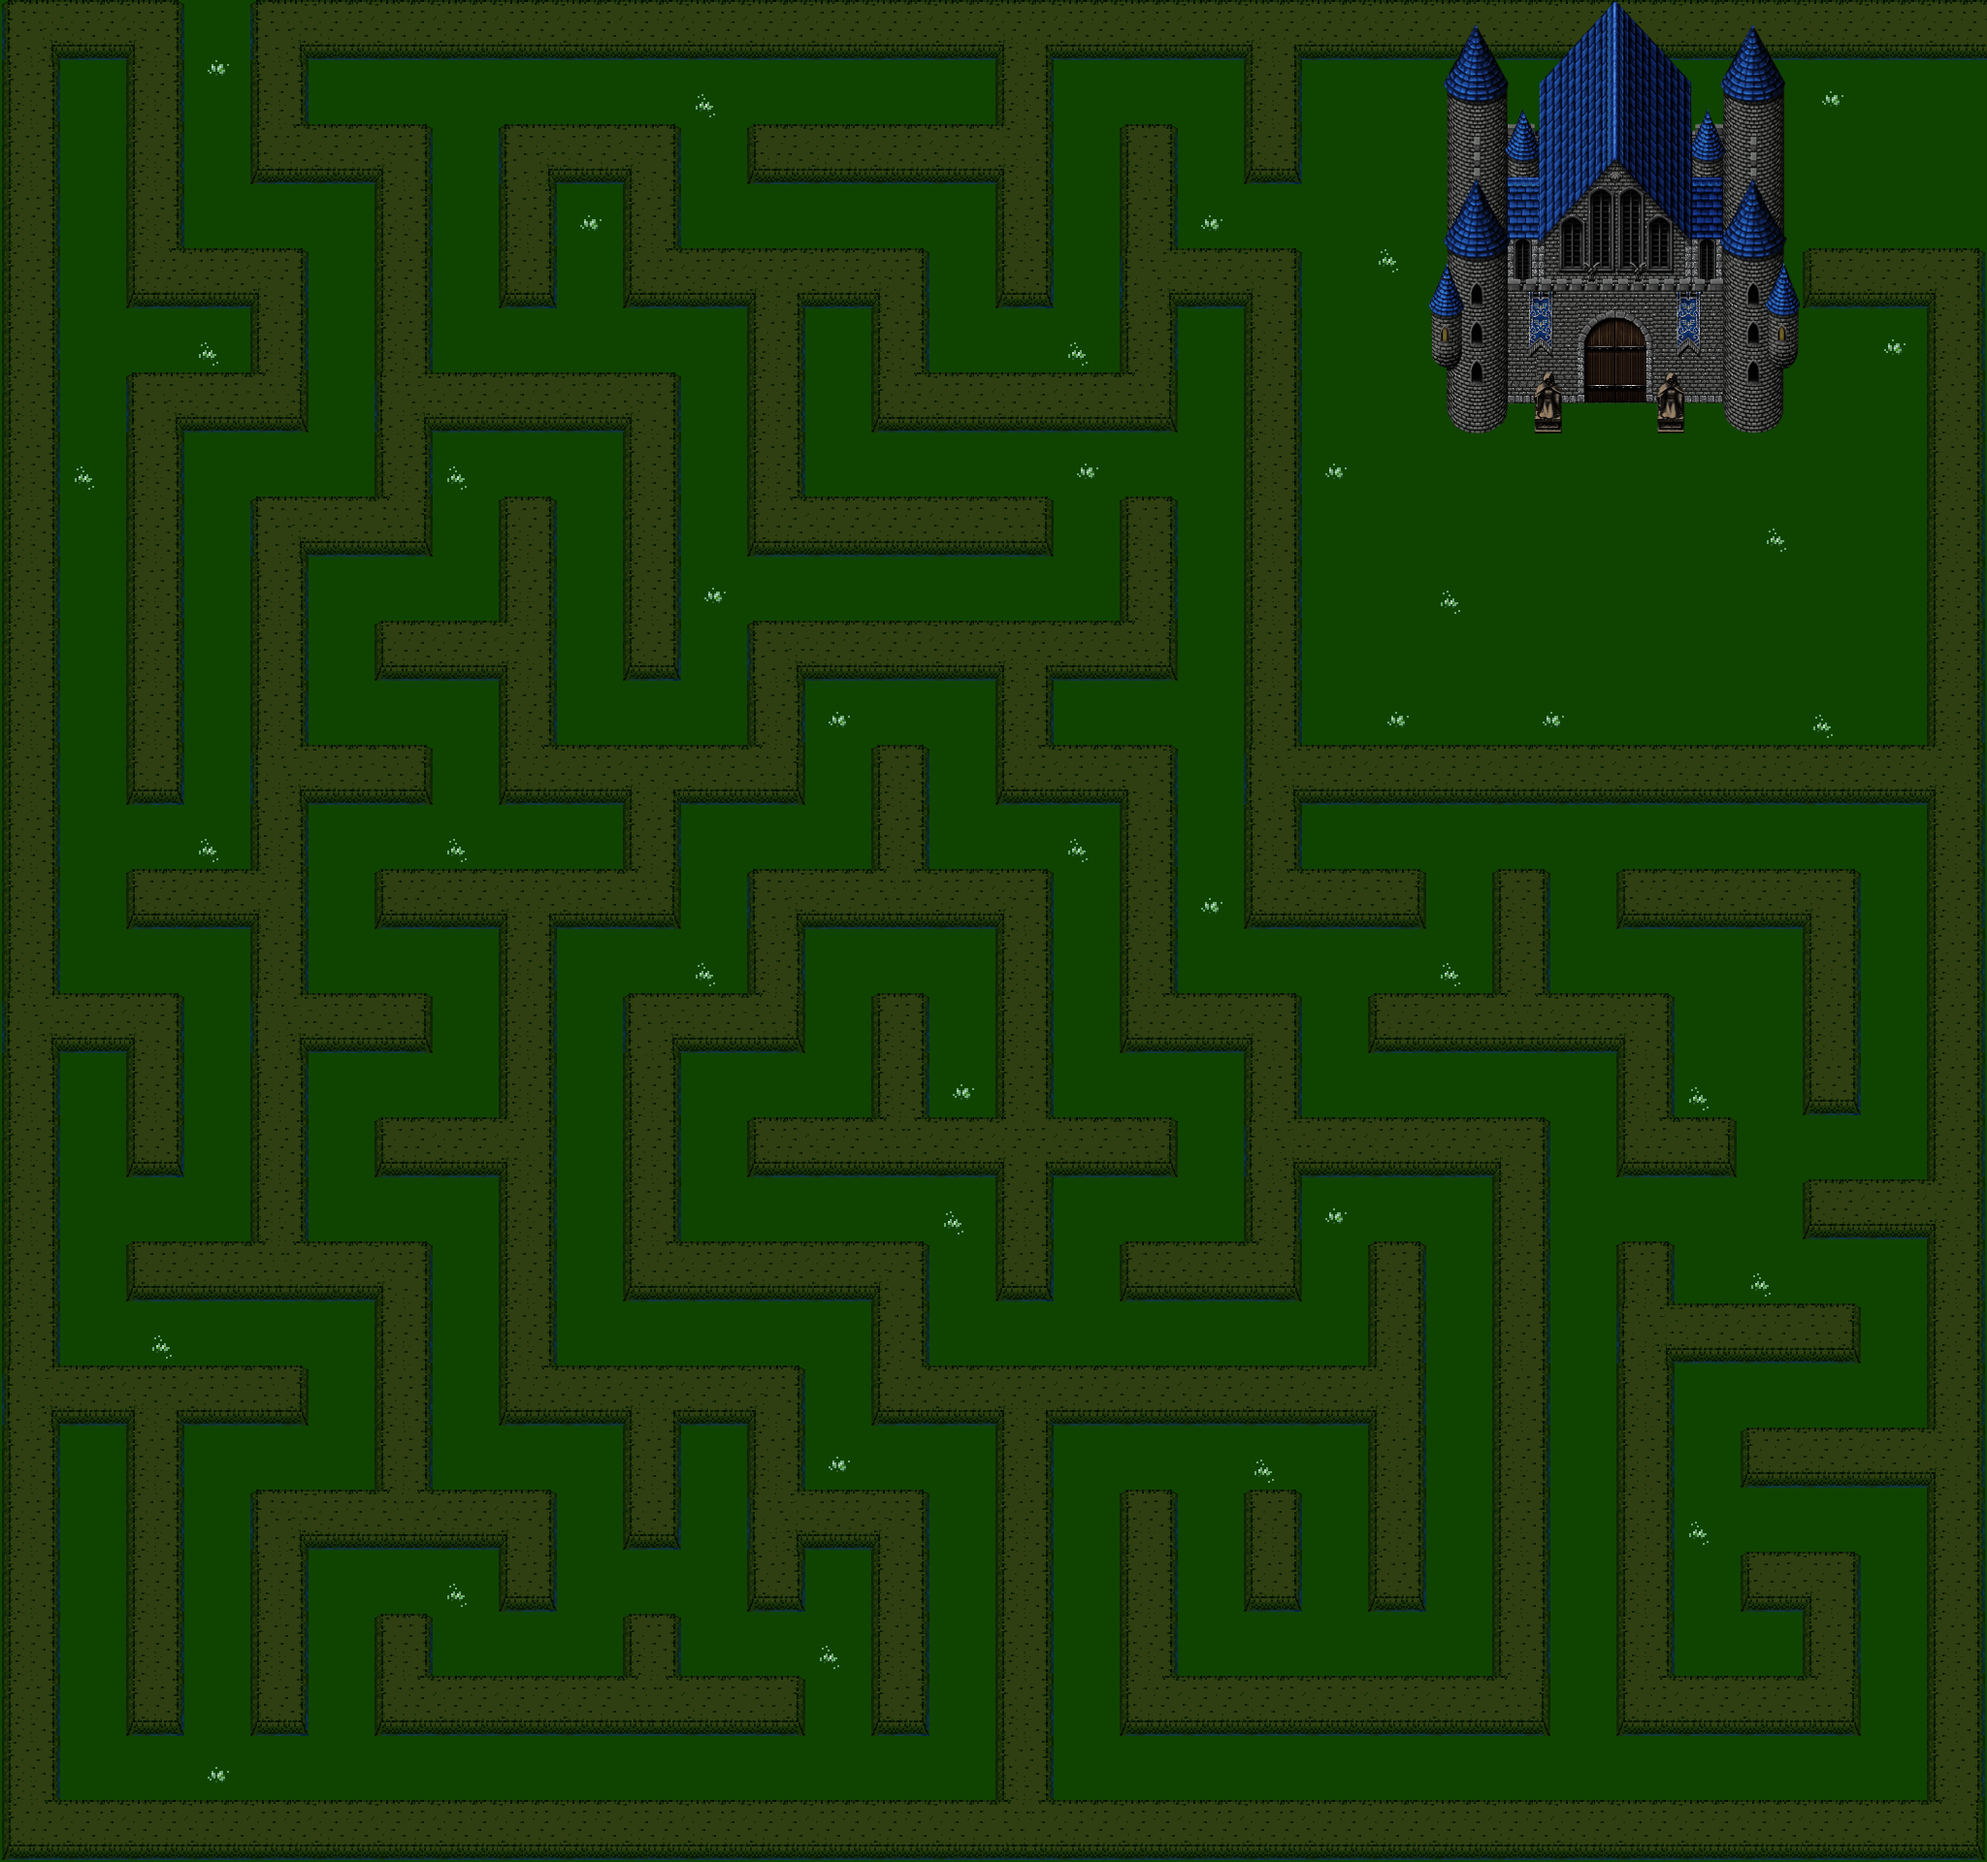
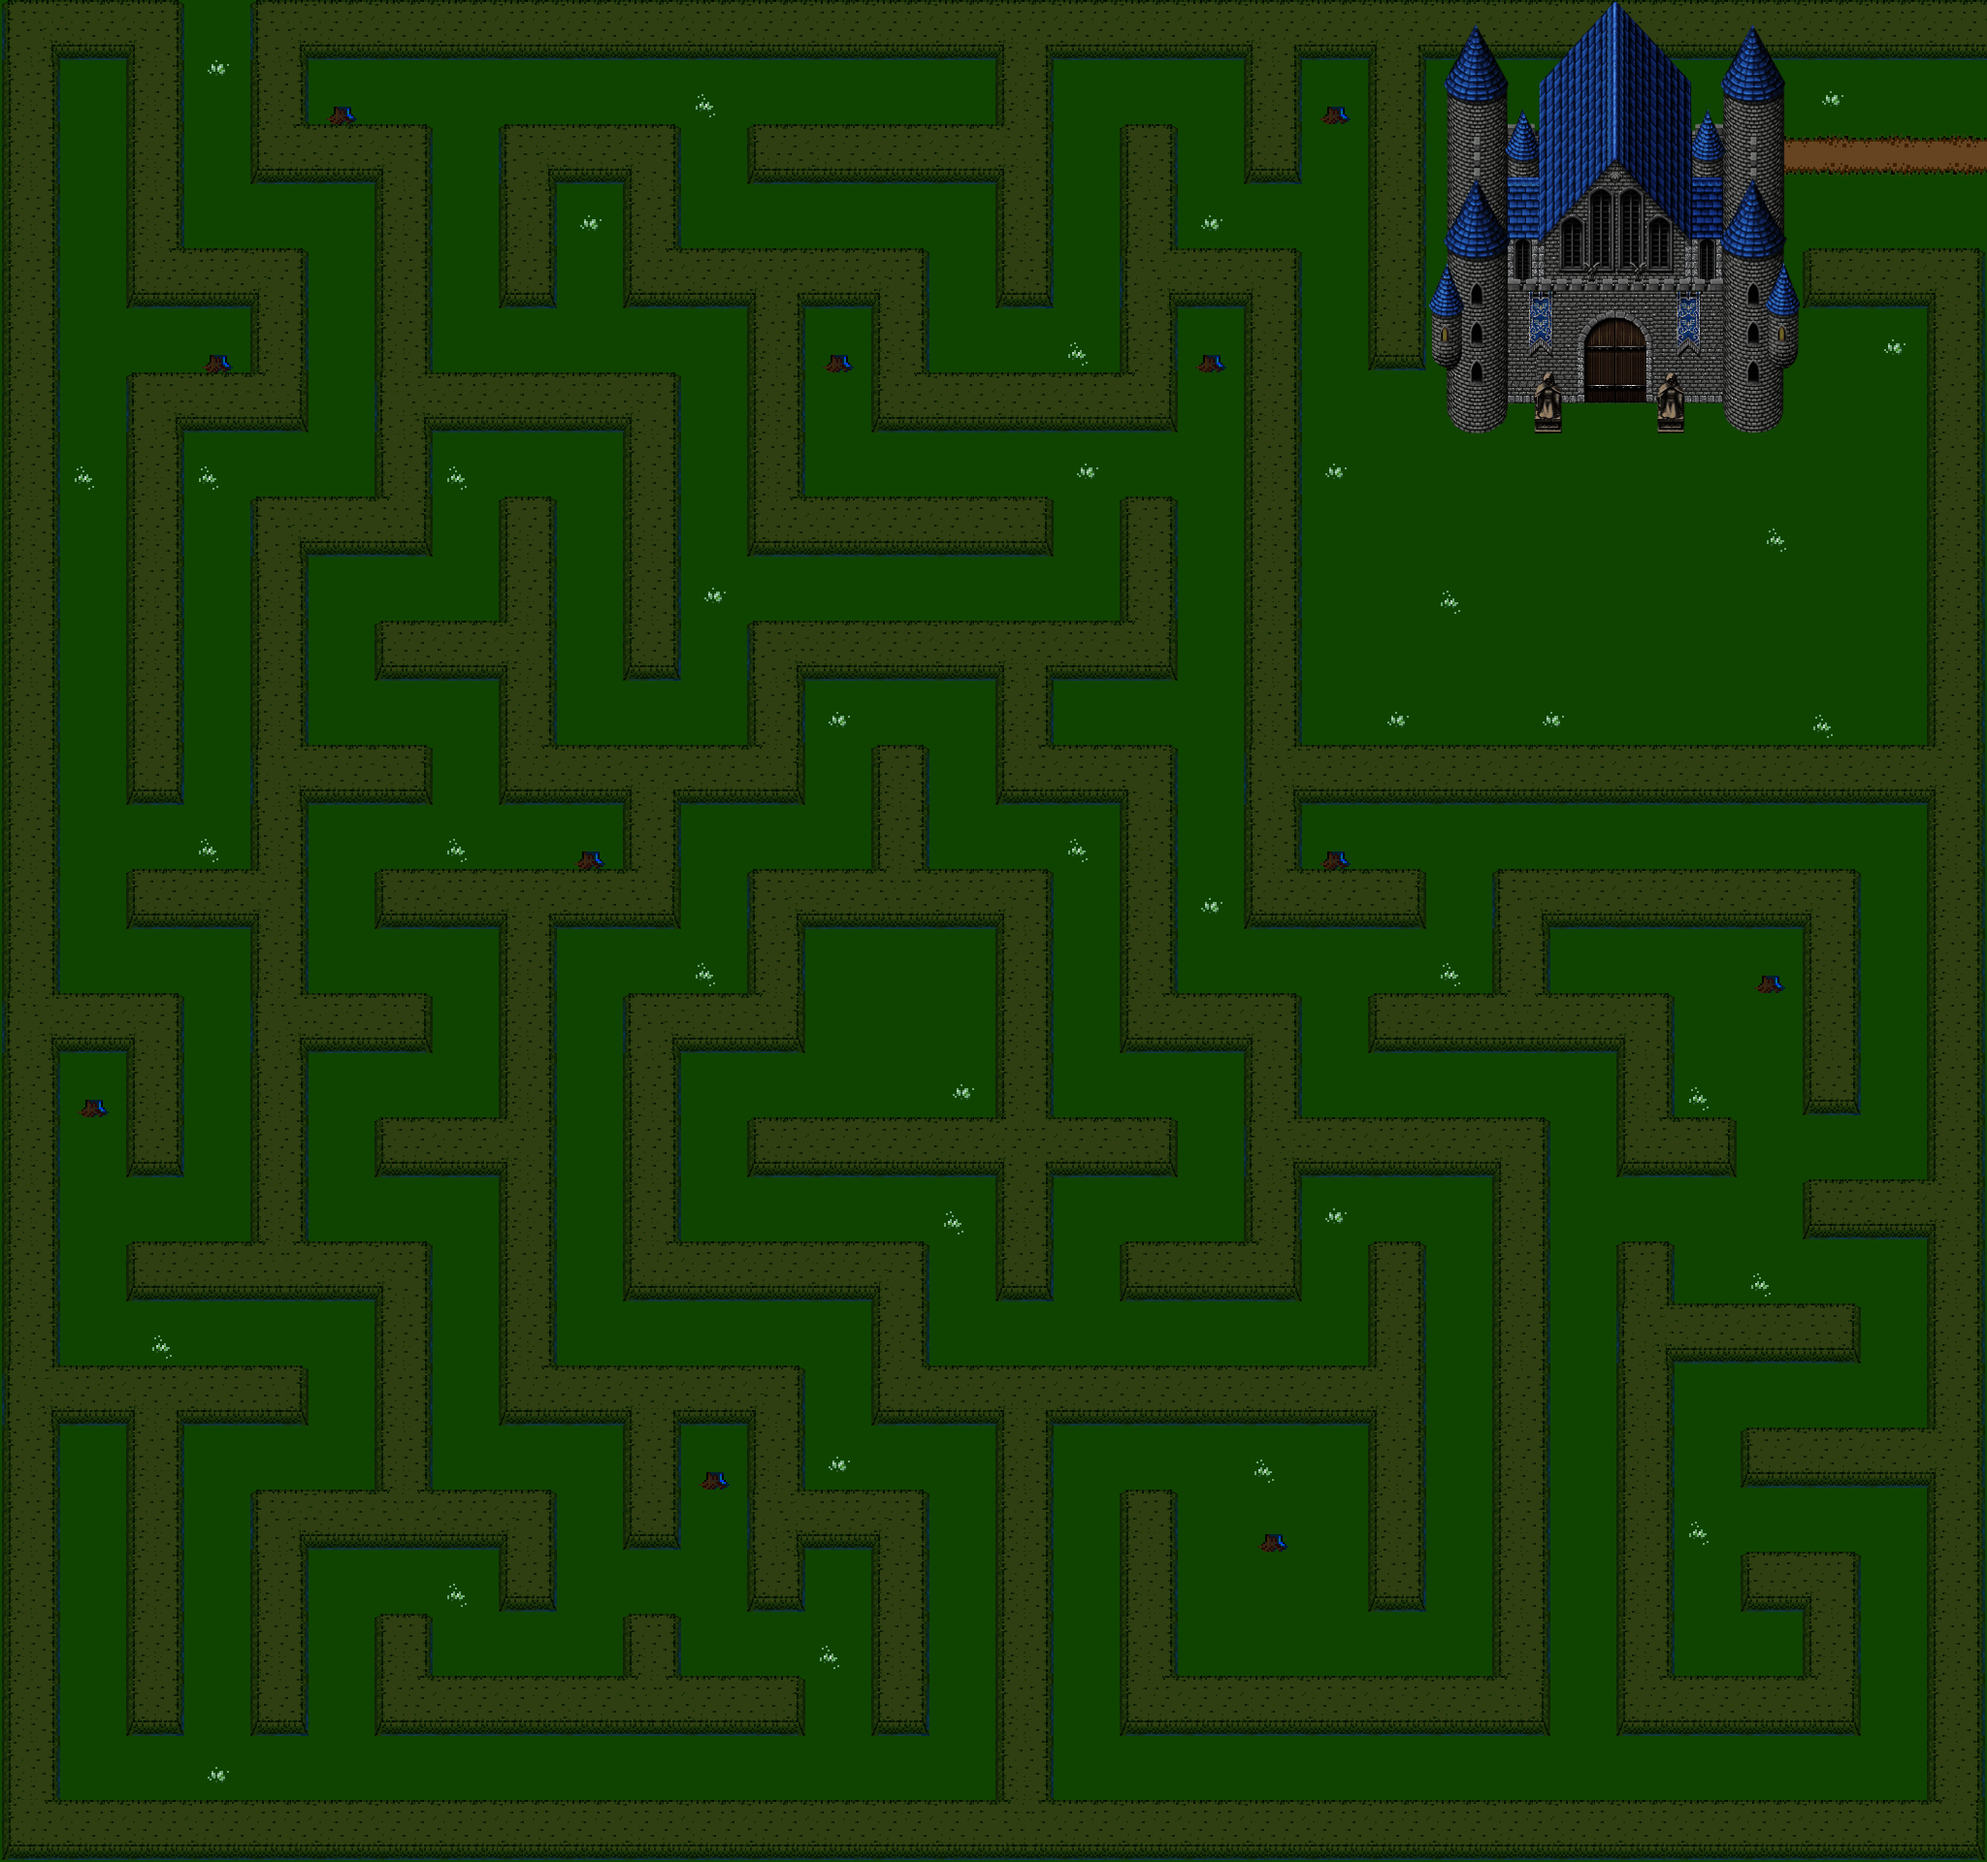
Added Chests to Level 2

diff --git a/maps.js b/maps.js
@@ -85,6 +85,12 @@ MapManager.prototype.initialize = function () {
     map02.addEntity(new MapTeleportEvent(gm, 3*TILE_SIZE, 0*TILE_SIZE, 50, 50, 1, 1944, 1740));
 	map02.addEntity(new MapTeleportEvent(gm, 1641, 390, 50, 50, 3, 15*TILE_SIZE+TILE_SIZE/2, 28*TILE_SIZE));
 	
+	map02.addEntity(new Chest(gm, 1*TILE_SIZE, 1*TILE_SIZE, 2, "Emerald"));
+	map02.addEntity(new Chest(gm, 1*TILE_SIZE, 23*TILE_SIZE, 2, "Emerald"));
+	map02.addEntity(new Chest(gm, 14*TILE_SIZE, 16*TILE_SIZE, 2, "Emerald"));
+	map02.addEntity(new Chest(gm, 15*TILE_SIZE, 1*TILE_SIZE, 2, "Emerald"));
+	map02.addEntity(new Chest(gm, 25*TILE_SIZE, 15*TILE_SIZE, 2, "Emerald"));
+	
 	//map02.addEntity(new Green(gm, 64, 64));
     //map02.addEntity(new Shark(gm, 64, 128));
     //map02.addEntity(new Fire(gm, 64, 256));
